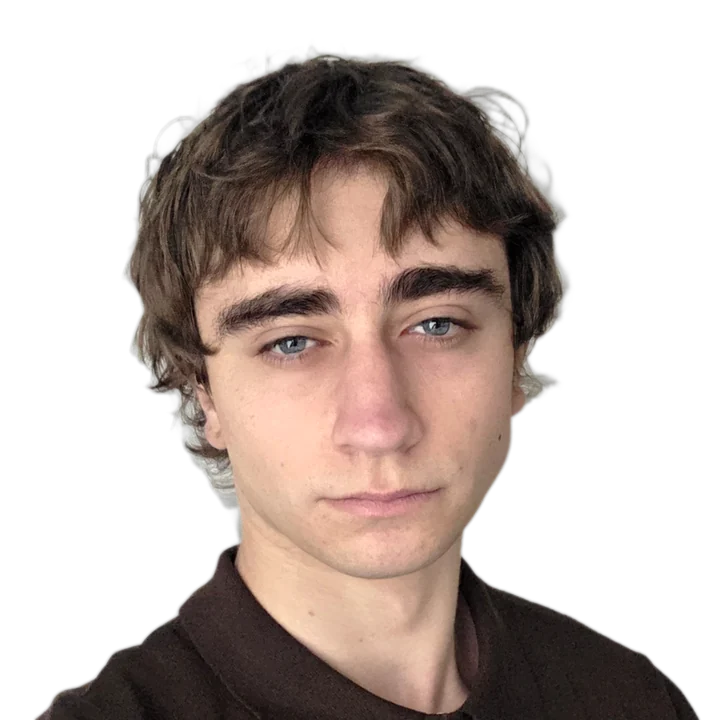
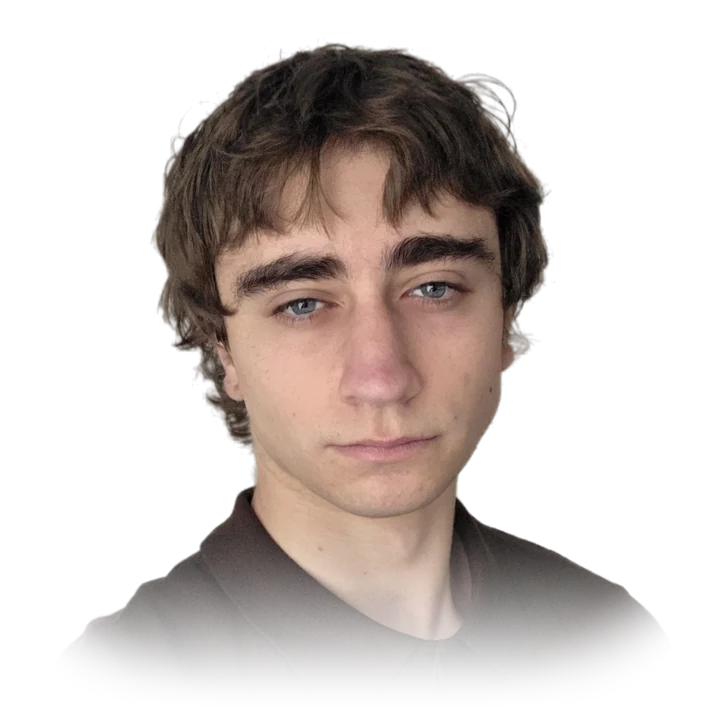
Porträt neu: Brustbild mit Hals und Schultern, saubere Haarkanten, Farbe statt Grau
Claude-Session: https://claude.ai/code/session_01SvgP8q1wU5TYdAWBBAAmo2

diff --git a/js/main.js b/js/main.js
@@ -270,10 +270,9 @@
     })();
 
 /* ==========================================================
-   Portrait: the edge of the photo dissolves into particles,
-   the same square dots as the galaxy around it. They breathe and
-   swirl a little; under the pointer (or a tap) they come home and
-   the photo turns from black-and-white to colour.
+   Portrait: a cut-out bust (head, neck, shoulders) in soft studio light,
+   with a faint halo of the same square dots as the galaxy along the hair.
+   Under the pointer (or a tap) the halo settles and the colour comes up.
    If anything is missing (old browser, file://), the normal round photo stays.
    ========================================================== */
     (function () {
@@ -286,6 +285,7 @@
         var LEVELS = 22, coreGray, coreColor, P = null, size = 0, dpr = 1, R = 0, C = 0;
         var t = 0, last = performance.now(), visible = true, assemble = 0, target = 0, colour = 0;
 
+        var D = 0, OX = 0, OY = 0;
         function build() {
             var w = wrap.offsetWidth;                          // layout size: not affected by the intro scale animation
             if (!w) return false;
@@ -294,52 +294,47 @@
             size = Math.round(css * dpr);
             cv.width = cv.height = size;
             C = size / 2; R = w / 2 * dpr;
+            // The bust is drawn a bit larger than the ring and lower, so neck and shoulders show
+            D = Math.round(R * 2 * 1.3); OX = C - D / 2; OY = C - D / 2 + D * .06;
 
-            // The photo drawn into a square the size of the circle
-            var src = document.createElement('canvas'), d = Math.round(R * 2);
+            var src = document.createElement('canvas'), d = D;
             src.width = src.height = d;
             var sg = src.getContext('2d');
             sg.drawImage(img, 0, 0, d, d);
             var data = sg.getImageData(0, 0, d, d).data;     // throws on file:// (tainted): we fall back
 
-            // Core: solid in the middle, fading out towards the edge
-            function core(gray) {
+            // Photo, slightly muted to sit in the black-and-white page; full colour on hover
+            function core(k) {
                 var c = document.createElement('canvas');
                 c.width = c.height = d;
                 var g = c.getContext('2d');
-                var id = g.createImageData(d, d), o = id.data, k = gray ? .55 : 0;
+                var id = g.createImageData(d, d), o = id.data;
                 for (var i = 0; i < o.length; i += 4) {
                     var y = data[i] * .299 + data[i + 1] * .587 + data[i + 2] * .114;
                     o[i] = data[i] + (y - data[i]) * k;
                     o[i + 1] = data[i + 1] + (y - data[i + 1]) * k;
                     o[i + 2] = data[i + 2] + (y - data[i + 2]) * k;
-                    o[i + 3] = data[i + 3];               // the photo is a cut-out: keep its transparency
+                    o[i + 3] = data[i + 3];               // cut-out with the shoulder fade already in the file
                 }
                 g.putImageData(id, 0, 0);
-                g.globalCompositeOperation = 'destination-in';
-                var vg = g.createLinearGradient(0, d * .62, 0, d * .98);   // shoulders melt into the black
-                vg.addColorStop(0, 'rgba(0,0,0,1)'); vg.addColorStop(1, 'rgba(0,0,0,0)');
-                g.fillStyle = vg; g.fillRect(0, 0, d, d);
-                var rg = g.createRadialGradient(d / 2, d * .45, d / 2 * .78, d / 2, d * .45, d / 2 * 1.05);
-                rg.addColorStop(0, 'rgba(0,0,0,1)'); rg.addColorStop(1, 'rgba(0,0,0,0)');
-                g.fillStyle = rg; g.fillRect(0, 0, d, d);
                 return c;
             }
-            coreGray = core(true); coreColor = core(false);
+            coreGray = core(.3); coreColor = core(0);
 
-            // Particles: sampled from the ring where the core fades out
-            var step = Math.max(2, Math.round(2.5 * dpr)), list = [];
-            for (var gy = 0; gy < d; gy += step) for (var gx = 0; gx < d; gx += step) {
+            // Particles: a faint halo only along the outline of the hair
+            var step = Math.max(2, Math.round(2.5 * dpr)), off = Math.round(5 * dpr), list = [];
+            var hx = d * .49, hy = d * .38;
+            function A(x, y) { return x < 0 || y < 0 || x >= d || y >= d ? 0 : data[(y * d + x) * 4 + 3]; }
+            for (var gy = 0; gy < d * .5; gy += step) for (var gx = 0; gx < d; gx += step) {
                 var x = Math.min(d - 1, gx + Math.random() * step) | 0, y = Math.min(d - 1, gy + Math.random() * step) | 0;
-                var dx = x - d / 2, dy = y - d / 2, r = Math.sqrt(dx * dx + dy * dy) / (d / 2);
-                if (y > d * .42) continue;                                 // hair only: nothing from face, neck, shoulders
-                if (r < .6 || r > 1.02) continue;
-                var u = (r - .6) / .42;
-                if (Math.random() > 1 - u * .45) continue;          // thinner towards the outside
+                if (A(x, y) < 120) continue;
+                var dx = x - hx, dy = y - hy, len = Math.sqrt(dx * dx + dy * dy) || 1;
+                var nx = dx / len, ny = dy / len;
+                if (A((x + nx * off) | 0, (y + ny * off) | 0) > 40) continue;       // keep only the outer edge
+                if (Math.random() > .55) continue;
                 var i4 = (y * d + x) * 4;
-                if (data[i4 + 3] < 110) continue;                       // no particles from the empty background
                 var lum = (data[i4] * .299 + data[i4 + 1] * .587 + data[i4 + 2] * .114) / 255;
-                list.push({ a: Math.atan2(dy, dx), r: r * R, u: u, lum: .08 + lum * .45, ph: Math.random() * 6.283, sp: .6 + Math.random() * .8, z: .8 + Math.random() * .9 });
+                list.push({ x: x, y: y, nx: nx, ny: ny, lum: .12 + lum * .5, ph: Math.random() * 6.283, sp: .6 + Math.random() * .8, z: .7 + Math.random() * .8, u: Math.random() });
             }
             P = list;
             return true;
@@ -352,25 +347,25 @@
                 assemble += (target - assemble) * .07;
                 colour += (target - colour) * .05;
                 ctx.clearRect(0, 0, size, size);
-                // the photo: black-and-white, colour fades in on hover
-                var d = R * 2, o = C - R, breathe = 1 + Math.sin(t * .7) * .012 * (1 - assemble);
+                // soft studio light behind the shoulders, so the dark shirt does not vanish in the black
+                var gl = ctx.createRadialGradient(C, OY + D * .45, 0, C, OY + D * .45, D * .62);
+                gl.addColorStop(0, 'rgba(255,255,255,.11)'); gl.addColorStop(.55, 'rgba(255,255,255,.04)'); gl.addColorStop(1, 'rgba(255,255,255,0)');
+                ctx.fillStyle = gl; ctx.fillRect(0, 0, size, size);
+                var breathe = 1 + Math.sin(t * .7) * .008 * (1 - assemble);
                 ctx.save();
-                ctx.translate(C, C); ctx.scale(breathe, breathe); ctx.translate(-C, -C);
-                ctx.globalAlpha = 1; ctx.drawImage(coreGray, o, o, d, d);
-                if (colour > .01) { ctx.globalAlpha = colour; ctx.drawImage(coreColor, o, o, d, d); }
+                ctx.translate(C, OY + D); ctx.scale(breathe, breathe); ctx.translate(-C, -(OY + D));
+                ctx.globalAlpha = 1; ctx.drawImage(coreGray, OX, OY, D, D);
+                if (colour > .01) { ctx.globalAlpha = colour; ctx.drawImage(coreColor, OX, OY, D, D); }
                 ctx.restore();
                 ctx.globalAlpha = 1;
-                // the dissolving edge, grouped by brightness so it is cheap to draw
+                // the halo, grouped by brightness so it is cheap to draw
                 var spread = 1 - assemble, paths = [];
                 for (var l = 0; l < LEVELS; l++) paths.push([]);
                 for (var i = 0; i < P.length; i++) {
-                    var p = P[i], u2 = p.u * p.u;
-                    var down = Math.max(0, Math.sin(p.a));                                              // less spray below the chin
-                    var out = u2 * R * .16 * (.55 + .45 * Math.sin(t * .5 * p.sp + p.ph)) * spread;
-                    var ang = p.a + (u2 * .12 * Math.sin(t * .3 + p.ph)) * spread;             // a soft drift, no swirl
-                    var rr = p.r + out;
-                    var x = C + Math.cos(ang) * rr, y = C + Math.sin(ang) * rr;
-                    var alpha = p.lum * (1 - p.u * .7 * spread) * (assemble > .9 && p.u < .25 ? .4 : 1);
+                    var p = P[i];
+                    var out = (2 + p.u * 14) * dpr * (.5 + .5 * Math.sin(t * .5 * p.sp + p.ph)) * spread;
+                    var x = OX + p.x + p.nx * out, y = OY + p.y + p.ny * out;
+                    var alpha = p.lum * (1 - p.u * .6 * spread) * .8;
                     var lv = Math.min(LEVELS - 1, (alpha * LEVELS) | 0);
                     if (lv > 0) paths[lv].push(x, y, p.z * dpr);
                 }
@@ -450,9 +445,12 @@
                     d.el.style.transform = 'translate(' + (c + X * k - d.w / 2).toFixed(1) + 'px,' + (c + Y * k - d.h / 2).toFixed(1) + 'px) scale(' + s.toFixed(3) + ')';
                     d.el.style.opacity = ((.35 + (front + 1) * .325) * intro).toFixed(3);
                     var hw = d.w / 2 / k, hh = d.h / 2 / k;                    // the whole tag, not just its centre
-                    var nearFace = Math.abs(X) < 36 + hw && Y > -50 - hh && Y < 46 + hh;   // head and shoulders area
-                    d.el.style.zIndex = front > 0 && !nearFace ? 4 : 1;
-                    if (nearFace) d.el.style.opacity = (parseFloat(d.el.style.opacity) * .25).toFixed(3);
+                    // How far the tag is outside the head box (negative = over the face): fade smoothly
+                    var outX = Math.abs(X) - (40 + hw), outY = Math.max(-55 - hh - Y, Y - (36 + hh));
+                    var out = Math.max(outX, outY), fade = Math.min(1, Math.max(0, out / 14));
+                    var nearBody = Math.abs(X) < 60 + hw && Y > 28 - hh && Y < 72 + hh;    // neck and shoulders
+                    d.el.style.zIndex = front > 0 && out > 0 && !nearBody ? 4 : 1;
+                    d.el.style.opacity = (parseFloat(d.el.style.opacity) * fade).toFixed(3);
                 });
             }
             requestAnimationFrame(frame);

diff --git a/sw.js b/sw.js
@@ -4,7 +4,7 @@
  * immediately when online; without internet the last seen version still works.
  * Only this site's own files are cached – nothing from anywhere else.
  */
-const CACHE = 'bk-cv-2026-11-27b';
+const CACHE = 'bk-cv-2026-11-27c';
 const CORE = [
     './', './index.html', './404.html', './css/style.css', './js/main.js', './manifest.webmanifest',
     './img/portrait-720.webp', './img/portrait-400.webp', './img/avatar-240.webp',
